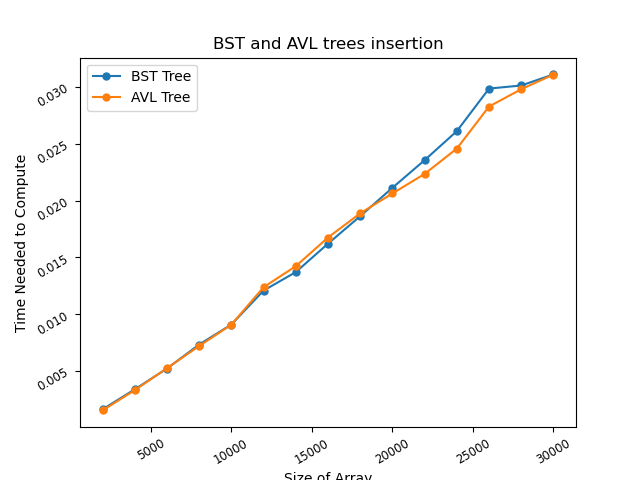
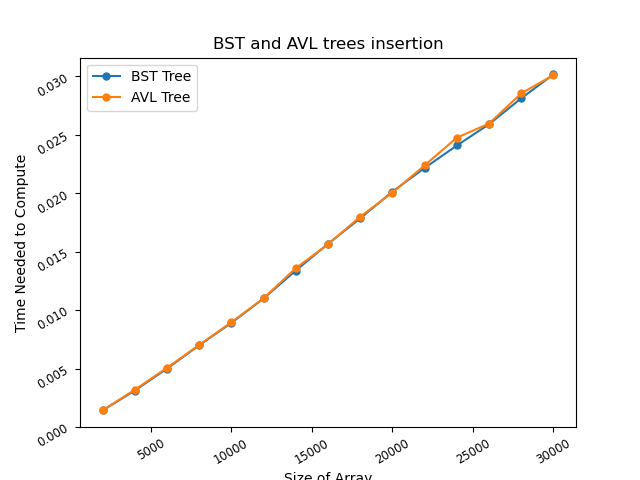
fixed_number_generation_passing

diff --git a/plot_functions.py b/plot_functions.py
@@ -70,10 +70,10 @@ def create_time_list(n_list: list[list[float]], tree, operation_name: str) -> li
     return average_times_list
 
 
-def draw_plot(n_values: list[int], title: str, bst_tree: BSTTree, avl_tree: AvlTree, operation_name: str):
+def draw_plot(n_values: list[int], generated_list: list[int], title: str, bst_tree: BSTTree, avl_tree: AvlTree, operation_name: str):
     n_list = []
     for n in n_values:
-        n_list.append(generate_list(30000, n))
+        n_list.append(generated_list[:n])
     bst_times = create_time_list(n_list, bst_tree, operation_name)
     avl_times = create_time_list(n_list, avl_tree, operation_name)
     plt.plot(n_values, bst_times, "o-", markersize=5, label="BST Tree")
@@ -88,10 +88,10 @@ def draw_plot(n_values: list[int], title: str, bst_tree: BSTTree, avl_tree: AvlT
     plt.show()
 
 
-def draw_plot_deletion(n_values: list[int], title: str, bst_tree: BSTTree):
+def draw_plot_deletion(n_values: list[int], generated_list: list[int], title: str, bst_tree: BSTTree):
     n_list = []
     for n in n_values:
-        n_list.append(generate_list(30000, n))
+        n_list.append(generated_list[:n])
     bst_times = create_time_list(n_list, bst_tree, "delete")
     plt.plot(n_values, bst_times, "o-", markersize=5, label="BST Tree")
     plt.xlabel("Size of Array")

diff --git a/main.py b/main.py
@@ -5,13 +5,14 @@ import plot_functions
 
 if __name__ == "__main__":
     n_values = [2000, 4000, 6000, 8000, 10000, 12000, 14000, 16000, 18000, 20000, 22000, 24000, 26000, 28000, 30000]
+    generated_list = plot_functions.generate_list(30000, 30000)
     empty_bst_tree = BSTTree()
     empty_avl_tree = AvlTree()
     full_bst_tree = plot_functions.create_full_bst_tree(30000)
     full_avl_tree = plot_functions.create_full_avl_tree(30000)
-    plot_functions.draw_plot(n_values, "BST and AVL trees insertion", empty_bst_tree, empty_avl_tree, "insert")
-    plot_functions.draw_plot(n_values, "BST and AVL trees search", full_bst_tree, full_avl_tree, "search")
-    plot_functions.draw_plot_deletion(n_values, "BST tree deletion", full_bst_tree,)
+    plot_functions.draw_plot(n_values, generated_list, "BST and AVL trees insertion", empty_bst_tree, empty_avl_tree, "insert")
+    plot_functions.draw_plot(n_values, generated_list, "BST and AVL trees search", full_bst_tree, full_avl_tree, "search")
+    plot_functions.draw_plot_deletion(n_values, generated_list, "BST tree deletion", full_bst_tree,)
     new_BST = plot_functions.create_full_bst_tree(10)
     new_AVL = plot_functions.create_full_avl_tree(10)
     print("Graphical representation of BST Tree: \n")
